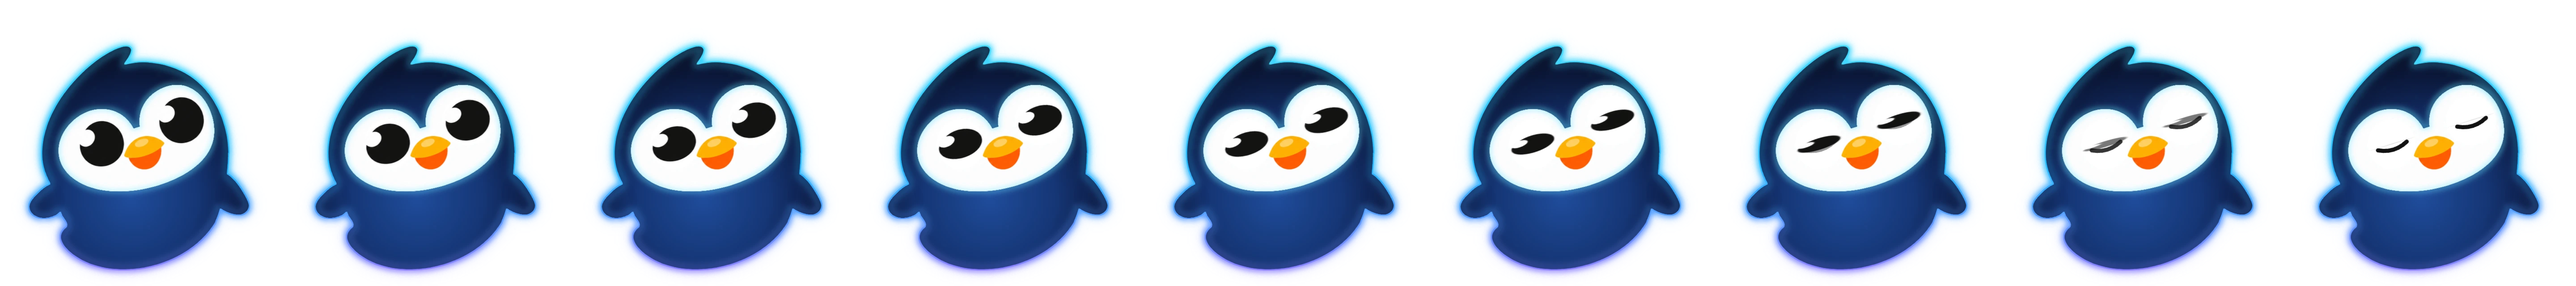
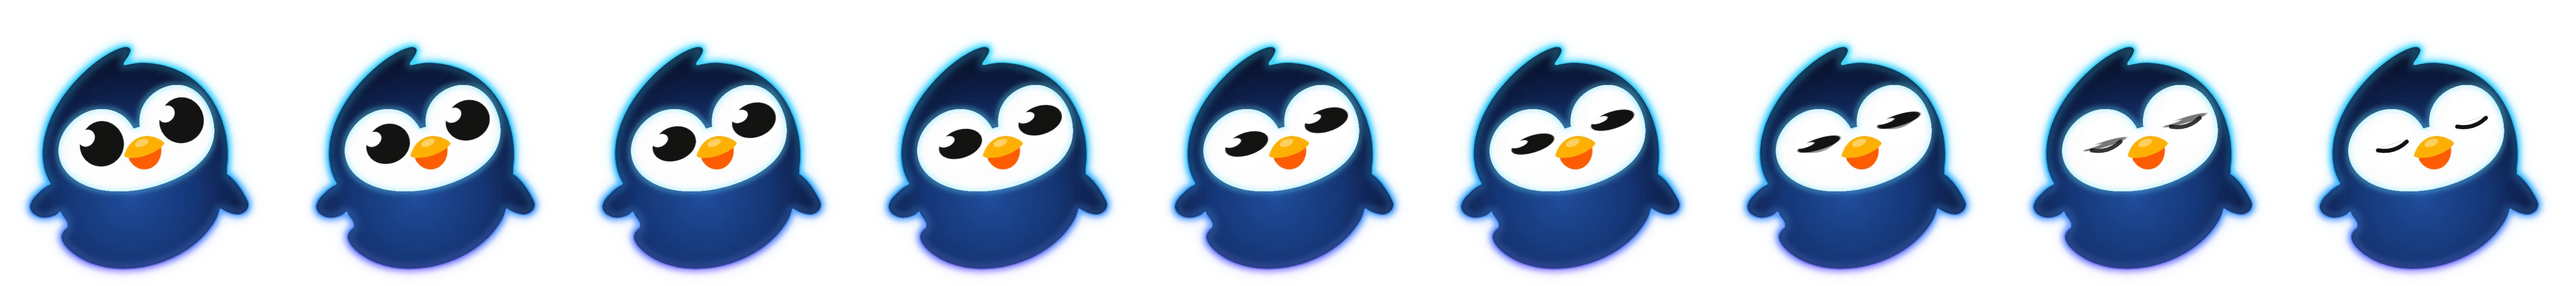
Smooth Nivo skin edges across the website

diff --git a/index.html b/index.html
@@ -147,7 +147,7 @@
   ]
 }
   </script>
-<!-- Nivolo release: champion-world-redesign-2026-11-12 -->
+<!-- Nivolo release: nivo-soft-edge-2026-11-12 -->
   <link rel="stylesheet" href="assets/mythic-edition.css?v=20261111-size" />
 </head>
 <body class="short-home premium-home">
@@ -295,7 +295,7 @@
       <ol class="steps reveal" data-stagger="50">
         <li class="step">
           <div class="step-art step-art--screen step-art--goal" aria-hidden="true">
-            <img class="step-app-screen" src="assets/screens/current-new-goal.webp?v=36f7c631acde" width="393" height="852" loading="lazy" alt="" />
+            <img class="step-app-screen" src="assets/screens/current-new-goal.webp?v=c57f0de39562" width="393" height="852" loading="lazy" alt="" />
           </div>
           <span class="step-num">1</span>
           <h3>Name the goal</h3>
@@ -328,15 +328,15 @@
       <div class="app-screen-preview" aria-label="Inside Nivolo">
         <div class="app-screen-card">
           <span class="app-screen-label"><b>Your day</b><span>01</span></span>
-          <span class="app-screen-stage"><span class="phone"><img src="assets/screens/current-home.webp?v=096ae1773e0b" width="393" height="852" loading="lazy" alt="Home: Nivo, this week’s progress, and the next step for Learn guitar." /></span></span>
+          <span class="app-screen-stage"><span class="phone"><img src="assets/screens/current-home.webp?v=45b0d519afe2" width="393" height="852" loading="lazy" alt="Home: Nivo, this week’s progress, and the next step for Learn guitar." /></span></span>
         </div>
         <div class="app-screen-card">
           <span class="app-screen-label"><b>A new goal</b><span>02</span></span>
-          <span class="app-screen-stage"><span class="phone"><img src="assets/screens/current-new-goal.webp?v=36f7c631acde" width="393" height="852" loading="lazy" alt="New goal: Run my first 5K with a running emoji selected." /></span></span>
+          <span class="app-screen-stage"><span class="phone"><img src="assets/screens/current-new-goal.webp?v=c57f0de39562" width="393" height="852" loading="lazy" alt="New goal: Run my first 5K with a running emoji selected." /></span></span>
         </div>
         <div class="app-screen-card">
           <span class="app-screen-label"><b>One small action</b><span>03</span></span>
-          <span class="app-screen-stage"><span class="phone"><img src="assets/screens/current-log-action.webp?v=a741f102488a" width="393" height="852" loading="lazy" alt="Log Action: practiced guitar for 15 minutes, today, with three stars of effort." /></span></span>
+          <span class="app-screen-stage"><span class="phone"><img src="assets/screens/current-log-action.webp?v=c7114d5be1fe" width="393" height="852" loading="lazy" alt="Log Action: practiced guitar for 15 minutes, today, with three stars of effort." /></span></span>
         </div>
       </div>
       <details class="compact-disclosure app-gallery-section" id="inside-app">
@@ -345,23 +345,23 @@
       <div class="app-screen-rail" tabindex="0" role="region" aria-label="More app screenshots. Scroll horizontally to explore five screens.">
         <div class="app-screen-card">
           <span class="app-screen-label"><b>Room to rest</b><span>04</span></span>
-          <span class="app-screen-stage"><span class="phone"><img src="assets/screens/current-rest.webp?v=fb9cad24385e" width="393" height="852" loading="lazy" alt="Rest day logged, with the streak still intact." /></span></span>
+          <span class="app-screen-stage"><span class="phone"><img src="assets/screens/current-rest.webp?v=fd0513deaea4" width="393" height="852" loading="lazy" alt="Rest day logged, with the streak still intact." /></span></span>
         </div>
         <div class="app-screen-card">
           <span class="app-screen-label"><b>Something for you</b><span>05</span></span>
-          <span class="app-screen-stage"><span class="phone"><img src="assets/screens/current-store.webp?v=ee47e39b9311" width="393" height="852" loading="lazy" alt="Rewards: coffee, a new book, and movie night to redeem with earned Krill." /></span></span>
+          <span class="app-screen-stage"><span class="phone"><img src="assets/screens/current-store.webp?v=0bbd1565e146" width="393" height="852" loading="lazy" alt="Rewards: coffee, a new book, and movie night to redeem with earned Krill." /></span></span>
         </div>
         <div class="app-screen-card">
           <span class="app-screen-label"><b>Your Trophy Shelf</b><span>06</span></span>
-          <span class="app-screen-stage"><span class="phone"><img src="assets/screens/current-achievements.webp?v=86dd3892b759" width="393" height="852" loading="lazy" alt="Achievements: four finished goals represented by their unique opals." /></span></span>
+          <span class="app-screen-stage"><span class="phone"><img src="assets/screens/current-achievements.webp?v=959f7b6f928e" width="393" height="852" loading="lazy" alt="Achievements: four finished goals represented by their unique opals." /></span></span>
         </div>
         <div class="app-screen-card">
           <span class="app-screen-label"><b>A goal, kept forever</b><span>07</span></span>
-          <span class="app-screen-stage"><span class="phone"><img src="assets/screens/current-gem-detail.webp?v=bc5c80a102e4" width="393" height="852" loading="lazy" alt="Cook 20 meals: its collected opal, completion date, and earned Krill." /></span></span>
+          <span class="app-screen-stage"><span class="phone"><img src="assets/screens/current-gem-detail.webp?v=0ea81edc224f" width="393" height="852" loading="lazy" alt="Cook 20 meals: its collected opal, completion date, and earned Krill." /></span></span>
         </div>
         <div class="app-screen-card">
           <span class="app-screen-label"><b>The bigger picture</b><span>08</span></span>
-          <span class="app-screen-stage"><span class="phone"><img src="assets/screens/current-profile.webp?v=44222f45fc89" width="393" height="852" loading="lazy" alt="Profile: Nivo, level progress, and a weekly activity chart." /></span></span>
+          <span class="app-screen-stage"><span class="phone"><img src="assets/screens/current-profile.webp?v=85d949f24a12" width="393" height="852" loading="lazy" alt="Profile: Nivo, level progress, and a weekly activity chart." /></span></span>
         </div>
       </div>
       <p class="app-gallery-note">Actual app screens · Sample goals shown <span aria-hidden="true">↔</span></p>
@@ -870,17 +870,17 @@ For our first twenty.</h2><p data-chapter-copy="intro">A little reminder you wer
   <!-- No ?v= on purpose: this is the one file edited at launch, and it should be the only edit. -->
   <script src="assets/store.js" defer></script>
   <script src="assets/contact.js?v=3" defer></script>
-  <script type="module" src="assets/collection-looks.js?v=20261112-champion"></script>
+  <script type="module" src="assets/collection-looks.js?v=20261112-nivo-soft-edge"></script>
   <script src="assets/early-supporter.js?v=20261110-icon-only" defer></script>
   <script src="assets/app-opals.js?v=b5840d248847" defer></script>
   <script src="assets/editorial-concept.js?v=acc123e234b1" defer></script>
   <script src="assets/icon-pop.js?v=20261110-classic-eyes" defer></script>
   <script src="assets/phone-studio.js?v=2" defer></script>
   <script src="assets/impact.js?v=4" defer></script>
-  <script type="module" src="assets/nivo.js?v=20261111-smooth"></script>
+  <script type="module" src="assets/nivo.js?v=20261112-nivo-soft-edge"></script>
   <script type="module" src="assets/first-step-demo.js?v=3"></script>
-  <script type="module" src="assets/mythic-edition.js?v=20261111-powers"></script>
-  <script type="module" src="assets/flower-edition.js?v=20261111-smooth"></script>
+  <script type="module" src="assets/mythic-edition.js?v=20261112-nivo-soft-edge"></script>
+  <script type="module" src="assets/flower-edition.js?v=20261112-nivo-soft-edge"></script>
 <!-- Cloudflare Web Analytics --><script defer src="https://static.cloudflareinsights.com/beacon.min.js" data-cf-beacon='{"token": "0a8d7a32283a42f5add228eaba22eef9"}'></script><!-- End Cloudflare Web Analytics -->
 </body>
 </html>

diff --git a/assets/flower-art.js b/assets/flower-art.js
@@ -788,10 +788,15 @@ function applyClassicCoat(svg, uid, colors, markings = "") {
 	};
 	const source = defs.querySelector(`[id="${uid}-art"]`);
 	source.id = `${uid}-classic-source`;
-	defs.append(element(`<filter id="${uid}-plumage-selection" color-interpolation-filters="sRGB"><feColorMatrix type="saturate" values="0"/><feComponentTransfer><feFuncR type="table" tableValues="1 .9 .8 .7 .6 .5 .4 .3 .2 .1 0"/><feFuncG type="table" tableValues="1 .9 .8 .7 .6 .5 .4 .3 .2 .1 0"/><feFuncB type="table" tableValues="1 .9 .8 .7 .6 .5 .4 .3 .2 .1 0"/></feComponentTransfer></filter>
+	const plumageCoverage = "1 1 1 1 1 1 1 1 1 1 1 1 1 1 1 1 1 .75 .25 0 0";
+	defs.append(element(`<filter id="${uid}-opaque-art" color-interpolation-filters="sRGB"><feComponentTransfer><feFuncA type="linear" slope="0" intercept="1"/></feComponentTransfer></filter>
+ <!-- Clean only the outer alpha fringe; colour, face and accessories stay sharp. -->
+ <filter id="${uid}-coat-edge" x="-2%" y="-2%" width="104%" height="104%"><feMorphology in="SourceAlpha" operator="erode" radius="2"/><feGaussianBlur stdDeviation=".65"/></filter>
+ <mask id="${uid}-coat-silhouette" maskUnits="userSpaceOnUse" x="0" y="0" width="1254" height="1254" style="mask-type:alpha"><use href="#${uid}-classic-source" filter="url(#${uid}-coat-edge)"/></mask>
+ <filter id="${uid}-plumage-selection" color-interpolation-filters="sRGB"><feColorMatrix type="saturate" values="0"/><feComponentTransfer><feFuncR type="table" tableValues="${plumageCoverage}"/><feFuncG type="table" tableValues="${plumageCoverage}"/><feFuncB type="table" tableValues="${plumageCoverage}"/><feFuncA type="linear" slope="0" intercept="1"/></feComponentTransfer></filter>
  <mask id="${uid}-plumage-mask" maskUnits="userSpaceOnUse" x="0" y="0" width="1254" height="1254" style="mask-type:luminance"><use href="#${uid}-classic-source" filter="url(#${uid}-plumage-selection)"/>${EYES.map((e) => `<ellipse cx="${e.cx}" cy="${e.cy}" rx="${e.rx + 14}" ry="${e.ry + 14}" fill="#000"/>`).join("")}<path d="M574 661Q565 621 600 592Q661 546 739 595L737 632Q737 714 660 716Q612 710 591 665Z" fill="#000"/></mask>
  <linearGradient id="${uid}-coat-gradient" x1="0" y1="0" x2=".5" y2="1"><stop stop-color="${colors[0]}"/><stop offset="1" stop-color="${colors[1]}"/></linearGradient>
- <g id="${uid}-art"><use href="#${uid}-classic-source"/><g mask="url(#${uid}-plumage-mask)"><rect width="1254" height="1254" fill="url(#${uid}-coat-gradient)"/><g>${markings}</g></g></g>`));
+ <g id="${uid}-art" mask="url(#${uid}-coat-silhouette)"><use href="#${uid}-classic-source" filter="url(#${uid}-opaque-art)"/><g mask="url(#${uid}-plumage-mask)"><rect width="1254" height="1254" fill="url(#${uid}-coat-gradient)"/><g>${markings}</g></g></g>`));
 	for (const part of [
 		"left-eye",
 		"right-eye",

diff --git a/assets/nivo-rig.js b/assets/nivo-rig.js
@@ -221,7 +221,9 @@ export function applyClassicCoat(svg, uid, colors, markings = '') {
  const source=defs.querySelector(`[id="${uid}-art"]`);source.id=`${uid}-classic-source`;
  const plumageCoverage = '1 1 1 1 1 1 1 1 1 1 1 1 1 1 1 1 1 .75 .25 0 0';
  defs.append(element(`<filter id="${uid}-opaque-art" color-interpolation-filters="sRGB"><feComponentTransfer><feFuncA type="linear" slope="0" intercept="1"/></feComponentTransfer></filter>
- <mask id="${uid}-coat-silhouette" maskUnits="userSpaceOnUse" x="0" y="0" width="1254" height="1254" style="mask-type:alpha"><use href="#${uid}-classic-source"/></mask>
+ <!-- Clean only the outer alpha fringe; colour, face and accessories stay sharp. -->
+ <filter id="${uid}-coat-edge" x="-2%" y="-2%" width="104%" height="104%"><feMorphology in="SourceAlpha" operator="erode" radius="2"/><feGaussianBlur stdDeviation=".65"/></filter>
+ <mask id="${uid}-coat-silhouette" maskUnits="userSpaceOnUse" x="0" y="0" width="1254" height="1254" style="mask-type:alpha"><use href="#${uid}-classic-source" filter="url(#${uid}-coat-edge)"/></mask>
  <filter id="${uid}-plumage-selection" color-interpolation-filters="sRGB"><feColorMatrix type="saturate" values="0"/><feComponentTransfer><feFuncR type="table" tableValues="${plumageCoverage}"/><feFuncG type="table" tableValues="${plumageCoverage}"/><feFuncB type="table" tableValues="${plumageCoverage}"/><feFuncA type="linear" slope="0" intercept="1"/></feComponentTransfer></filter>
  <mask id="${uid}-plumage-mask" maskUnits="userSpaceOnUse" x="0" y="0" width="1254" height="1254" style="mask-type:luminance"><use href="#${uid}-classic-source" filter="url(#${uid}-plumage-selection)"/>${EYES.map(e=>`<ellipse cx="${e.cx}" cy="${e.cy}" rx="${e.rx+14}" ry="${e.ry+14}" fill="#000"/>`).join('')}<path d="M574 661Q565 621 600 592Q661 546 739 595L737 632Q737 714 660 716Q612 710 591 665Z" fill="#000"/></mask>
  <linearGradient id="${uid}-coat-gradient" x1="0" y1="0" x2=".5" y2="1"><stop stop-color="${colors[0]}"/><stop offset="1" stop-color="${colors[1]}"/></linearGradient>

diff --git a/assets/collection-looks.js b/assets/collection-looks.js
@@ -1,8 +1,8 @@
 import {collections} from './nivo-collections.js?v=20261111-mythic';
 import {chapters,looks,destinations} from './collection-chapters-data.js?v=20261111-chapters';
 import {unlocks,worlds} from './collection-unlocks.js?v=20261111-chapters';
-import {idleAt,neutralPose} from './nivo-rig.js?v=20261110-mascot-size';
-import {withLightweightIdle} from './nivo-idle.js?v=1';
+import {idleAt,neutralPose} from './nivo-rig.js?v=20261112-nivo-soft-edge';
+import {withLightweightIdle} from './nivo-idle.js?v=20261112-nivo-soft-edge';
 const cn=()=>document.documentElement.lang.startsWith('zh');
 const copy={
  en:{matching:'Nivo + matching app icon',day:'Day',night:'Midnight',pause:'Pause Nivo',play:'Play Nivo',inspect:'Explore icon ↗',retry:'Reload preview',error:'The preview could not load. Try again.',terms:'Any paid membership counts. Free trials and launch-list signups do not reserve a place.',choose:'Choose a Nivo',selected:' selected',free:'Yours from the start',plus:'Included with Nivolo Plus',krill:'{n} Krill',streak:'{n}-day streak',goal:'Complete a goal',freeze:'Use a streak freeze',comeback:'Return after a break',early:'Log before 8 AM',nightUnlock:'Log after midnight',bigday:'5 actions in one day',count:'{n} actions total',supporter:'For the first 20 paying members'},
@@ -12,7 +12,7 @@ const t=(key,n)=>copy[cn()?'zh':'en'][key]?.replace('{n}',n) || key;
 const icon=id=>`assets/icons/${id}.png?v=20261110-classic-eyes`;
 const reduced=matchMedia('(prefers-reduced-motion: reduce)');
 let rendererPromise;
-function renderer(){return rendererPromise ||= import('./nivo-skins.js?v=20261110-sick-care').catch(error=>{rendererPromise=null;throw error})}
+function renderer(){return rendererPromise ||= import('./nivo-skins.js?v=20261112-nivo-soft-edge').catch(error=>{rendererPromise=null;throw error})}
 const controllers=new Map();let serial=0;
 for(const section of document.querySelectorAll('[data-chapter]')){
  const group=collections.find(c=>c.id===section.dataset.chapter),data=chapters[group.id];

diff --git a/assets/mythic-art.js b/assets/mythic-art.js
@@ -525,7 +525,9 @@ function applyClassicCoat(svg, uid, colors, markings = "") {
 	source.id = `${uid}-classic-source`;
 	const plumageCoverage = "1 1 1 1 1 1 1 1 1 1 1 1 1 1 1 1 1 .75 .25 0 0";
 	defs.append(element(`<filter id="${uid}-opaque-art" color-interpolation-filters="sRGB"><feComponentTransfer><feFuncA type="linear" slope="0" intercept="1"/></feComponentTransfer></filter>
- <mask id="${uid}-coat-silhouette" maskUnits="userSpaceOnUse" x="0" y="0" width="1254" height="1254" style="mask-type:alpha"><use href="#${uid}-classic-source"/></mask>
+ <!-- Clean only the outer alpha fringe; colour, face and accessories stay sharp. -->
+ <filter id="${uid}-coat-edge" x="-2%" y="-2%" width="104%" height="104%"><feMorphology in="SourceAlpha" operator="erode" radius="2"/><feGaussianBlur stdDeviation=".65"/></filter>
+ <mask id="${uid}-coat-silhouette" maskUnits="userSpaceOnUse" x="0" y="0" width="1254" height="1254" style="mask-type:alpha"><use href="#${uid}-classic-source" filter="url(#${uid}-coat-edge)"/></mask>
  <filter id="${uid}-plumage-selection" color-interpolation-filters="sRGB"><feColorMatrix type="saturate" values="0"/><feComponentTransfer><feFuncR type="table" tableValues="${plumageCoverage}"/><feFuncG type="table" tableValues="${plumageCoverage}"/><feFuncB type="table" tableValues="${plumageCoverage}"/><feFuncA type="linear" slope="0" intercept="1"/></feComponentTransfer></filter>
  <mask id="${uid}-plumage-mask" maskUnits="userSpaceOnUse" x="0" y="0" width="1254" height="1254" style="mask-type:luminance"><use href="#${uid}-classic-source" filter="url(#${uid}-plumage-selection)"/>${EYES.map((e) => `<ellipse cx="${e.cx}" cy="${e.cy}" rx="${e.rx + 14}" ry="${e.ry + 14}" fill="#000"/>`).join("")}<path d="M574 661Q565 621 600 592Q661 546 739 595L737 632Q737 714 660 716Q612 710 591 665Z" fill="#000"/></mask>
  <linearGradient id="${uid}-coat-gradient" x1="0" y1="0" x2=".5" y2="1"><stop stop-color="${colors[0]}"/><stop offset="1" stop-color="${colors[1]}"/></linearGradient>

diff --git a/assets/nivo-skins.js b/assets/nivo-skins.js
@@ -161,7 +161,9 @@ function applyClassicCoat(svg, uid, colors, markings = "") {
 	source.id = `${uid}-classic-source`;
 	const plumageCoverage = "1 1 1 1 1 1 1 1 1 1 1 1 1 1 1 1 1 .75 .25 0 0";
 	defs.append(element(`<filter id="${uid}-opaque-art" color-interpolation-filters="sRGB"><feComponentTransfer><feFuncA type="linear" slope="0" intercept="1"/></feComponentTransfer></filter>
- <mask id="${uid}-coat-silhouette" maskUnits="userSpaceOnUse" x="0" y="0" width="1254" height="1254" style="mask-type:alpha"><use href="#${uid}-classic-source"/></mask>
+ <!-- Clean only the outer alpha fringe; colour, face and accessories stay sharp. -->
+ <filter id="${uid}-coat-edge" x="-2%" y="-2%" width="104%" height="104%"><feMorphology in="SourceAlpha" operator="erode" radius="2"/><feGaussianBlur stdDeviation=".65"/></filter>
+ <mask id="${uid}-coat-silhouette" maskUnits="userSpaceOnUse" x="0" y="0" width="1254" height="1254" style="mask-type:alpha"><use href="#${uid}-classic-source" filter="url(#${uid}-coat-edge)"/></mask>
  <filter id="${uid}-plumage-selection" color-interpolation-filters="sRGB"><feColorMatrix type="saturate" values="0"/><feComponentTransfer><feFuncR type="table" tableValues="${plumageCoverage}"/><feFuncG type="table" tableValues="${plumageCoverage}"/><feFuncB type="table" tableValues="${plumageCoverage}"/><feFuncA type="linear" slope="0" intercept="1"/></feComponentTransfer></filter>
  <mask id="${uid}-plumage-mask" maskUnits="userSpaceOnUse" x="0" y="0" width="1254" height="1254" style="mask-type:luminance"><use href="#${uid}-classic-source" filter="url(#${uid}-plumage-selection)"/>${EYES.map((e) => `<ellipse cx="${e.cx}" cy="${e.cy}" rx="${e.rx + 14}" ry="${e.ry + 14}" fill="#000"/>`).join("")}<path d="M574 661Q565 621 600 592Q661 546 739 595L737 632Q737 714 660 716Q612 710 591 665Z" fill="#000"/></mask>
  <linearGradient id="${uid}-coat-gradient" x1="0" y1="0" x2=".5" y2="1"><stop stop-color="${colors[0]}"/><stop offset="1" stop-color="${colors[1]}"/></linearGradient>

diff --git a/assets/launch-paddle.js b/assets/launch-paddle.js
@@ -1,10 +1,10 @@
 import { myths } from './mythic-catalog.js?v=20261111-mythic';
-import { makeMyth } from './mythic-art.js?v=20261111-powers';
-import { idleAt, neutralPose } from './nivo-rig.js?v=20261110-mascot-size';
+import { makeMyth } from './mythic-art.js?v=20261112-nivo-soft-edge';
+import { idleAt, neutralPose } from './nivo-rig.js?v=20261112-nivo-soft-edge';
 
-import { makeClassicSkin, heroLooks } from './nivo-skins.js?v=20261110-sick-care';
-import { withLightweightIdle } from './nivo-idle.js?v=1';
-import { makeFlower, flowers } from './flower-art.js?v=20261110-launch-collection';
+import { makeClassicSkin, heroLooks } from './nivo-skins.js?v=20261112-nivo-soft-edge';
+import { withLightweightIdle } from './nivo-idle.js?v=20261112-nivo-soft-edge';
+import { makeFlower, flowers } from './flower-art.js?v=20261112-nivo-soft-edge';
 
 // The launch page owns this rig so the flipper and its paddle share one motion.
 const container = document.querySelector('[data-launch-nivo]');

diff --git a/assets/nivo.js b/assets/nivo.js
@@ -1,6 +1,6 @@
-import { createRig, idleAt, neutralPose, smallWinAt, celebrationAt, SMALL_WIN_MS, CELEBRATION_MS } from './nivo-rig.js?v=20261110-mascot-size';
-import { makeClassicSkin, heroLooks } from './nivo-skins.js?v=20261110-sick-care';
-import { withLightweightIdle } from './nivo-idle.js?v=1';
+import { createRig, idleAt, neutralPose, smallWinAt, celebrationAt, SMALL_WIN_MS, CELEBRATION_MS } from './nivo-rig.js?v=20261112-nivo-soft-edge';
+import { makeClassicSkin, heroLooks } from './nivo-skins.js?v=20261112-nivo-soft-edge';
+import { withLightweightIdle } from './nivo-idle.js?v=20261112-nivo-soft-edge';
 
 const strings = {
   en: { pause: 'Pause animation', resume: 'Resume animation', off: 'Sound: off', on: 'Sound: on' },

diff --git a/assets/flower-edition.js b/assets/flower-edition.js
@@ -64,7 +64,7 @@ if(section){
  async function load(){
   if(api||loading)return;loading=true;section.querySelector('.flower-retry').hidden=true;
   try{
-   api=await import('./flower-art.js?v=20261110-mascot-size');
+   api=await import('./flower-art.js?v=20261112-nivo-soft-edge');
    const image=new Image();image.src=new URL('./nivo-body.png',import.meta.url).href;await image.decode();
    render();choices.forEach(b=>b.disabled=false);section.querySelector('.flower-controls').hidden=false;
   }catch{api=null;section.querySelector('.flower-retry').hidden=false;}finally{loading=false;}

diff --git a/assets/mythic-edition.js b/assets/mythic-edition.js
@@ -68,7 +68,7 @@ if (section) {
     if (api || loading) return loading;
     loading = (async () => {
       try {
-        api = await import('./mythic-art.js?v=20261111-powers');
+        api = await import('./mythic-art.js?v=20261112-nivo-soft-edge');
         const image = new Image(); image.src = new URL('./nivo-body.png', import.meta.url); await image.decode();
         failed = false; select(selected.id);
         section.querySelectorAll('button').forEach(button => button.disabled = false);

diff --git a/launch.html b/launch.html
@@ -102,7 +102,7 @@
   </main>
 
   <script src="assets/launch.js?v=5" defer></script>
-  <script type="module" src="assets/launch-paddle.js?v=20261111-smooth"></script>
+  <script type="module" src="assets/launch-paddle.js?v=20261112-nivo-soft-edge"></script>
 <!-- Cloudflare Web Analytics --><script defer src="https://static.cloudflareinsights.com/beacon.min.js" data-cf-beacon='{"token": "0a8d7a32283a42f5add228eaba22eef9"}'></script><!-- End Cloudflare Web Analytics -->
 </body>
 </html>

diff --git a/assets/nivo-idle.js b/assets/nivo-idle.js
@@ -1,4 +1,4 @@
-import { deepseaIdle } from './deepsea-idle-data.js?v=1';
+import { deepseaIdle } from './deepsea-idle-data.js?v=20261112-nivo-soft-edge';
 
 // The stills are captured from the approved rig, including its full glow.
 // Keep event reactions live; idle motion and blinking reuse the captured art.
